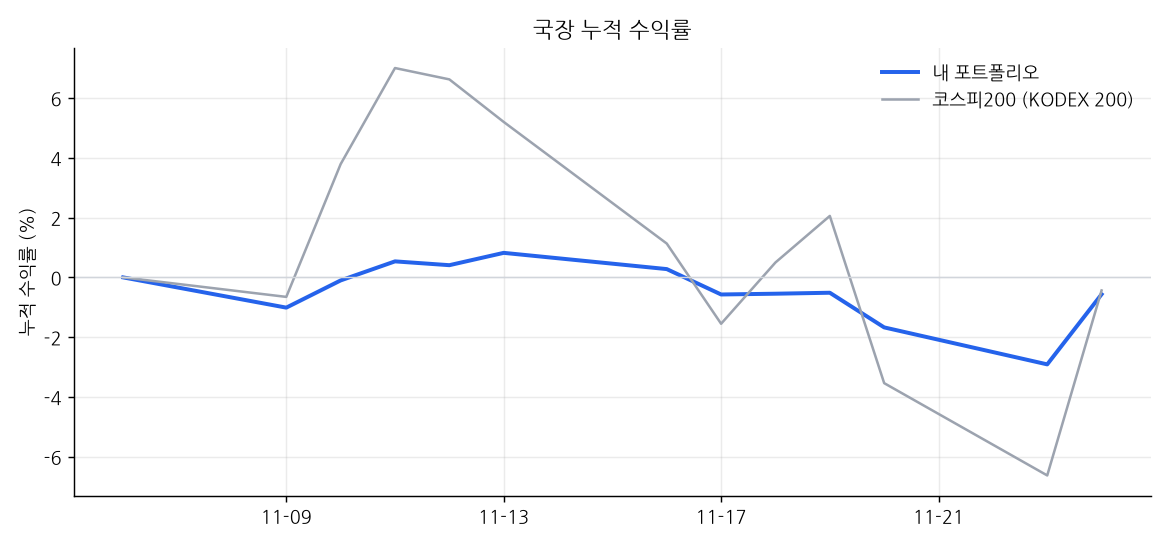
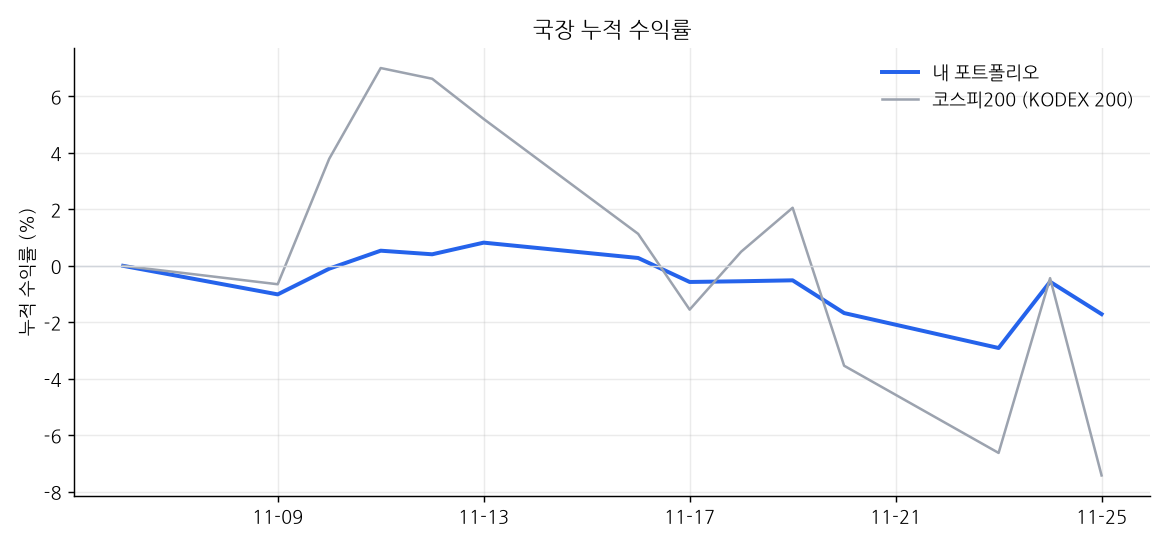
dashboard 2026-11-25 16:00

diff --git a/README.md b/README.md
@@ -1,11 +1,11 @@
 # 📈 내 자동매매 포트폴리오
 
-_마지막 갱신: 2026-11-25 07:30 (KST) · 라즈베리파이 자동 업데이트_
+_마지막 갱신: 2026-11-25 16:00 (KST) · 라즈베리파이 자동 업데이트_
 
 | 트랙 | 시작일 | 누적 수익률 | 비교 지수 | 초과 | 최근 1개월 | 국면 |
 |---|---|---|---|---|---|---|
 | 미장 | 2026-11-05 | **-2.08%** | -1.94% | -0.14% | - | BULL |
-| 국장 | 2026-11-06 | **-0.56%** | -0.44% | -0.13% | - | BEAR |
+| 국장 | 2026-11-06 | **-1.71%** | -7.42% | +5.71% | - | BEAR |
 
 ## 미장
 
@@ -33,16 +33,16 @@ _마지막 갱신: 2026-11-25 07:30 (KST) · 라즈베리파이 자동 업데이
 
 | 종목 | 비중 |
 |---|---|
-| KODEX 단기채권 | 49.8% |
-| 현금 | 14.6% |
+| KODEX 단기채권 | 50.4% |
+| 현금 | 14.8% |
 | 하나금융지주 | 5.2% |
-| 현대모비스 | 5.0% |
 | 신한지주 | 5.0% |
-| 셀트리온 | 4.6% |
-| 삼성SDI | 4.5% |
-| SK스퀘어 | 4.3% |
-| 삼성물산 | 4.3% |
-| 삼성바이오로직스 | 2.6% |
+| 현대모비스 | 5.0% |
+| 셀트리온 | 4.9% |
+| 삼성SDI | 4.2% |
+| 삼성물산 | 4.0% |
+| SK스퀘어 | 3.9% |
+| 삼성바이오로직스 | 2.8% |
 
 ![국장 비중](charts/kr_weights.png)
 
